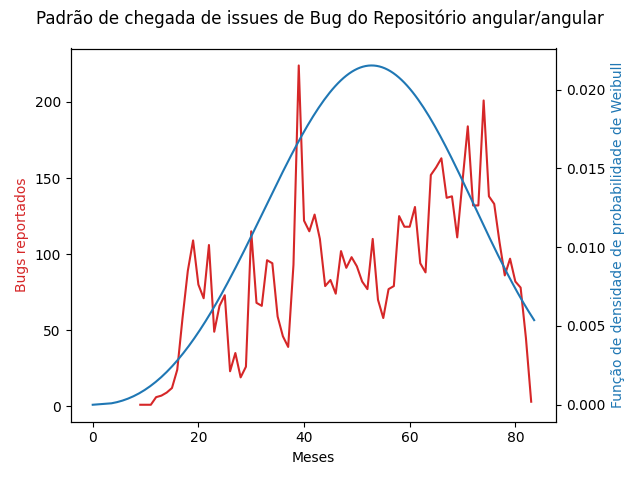
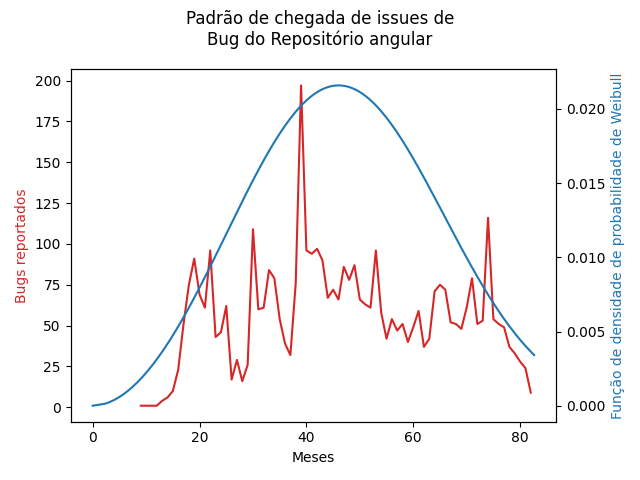
Add images results based on csv files.

diff --git a/graph_generator.py b/graph_generator.py
@@ -25,13 +25,8 @@ class GraphGenerator:
         plt.plot(axis_x, line_y,  color='blue', linewidth=1)
 
         plt.suptitle('Regressão Linear no último terço do repositório do software Spring')
-        plt.show()
+        plt.savefig(self.dg.repository.chart_name_linear)
 
-    # gg.export_graphs(
-    #     image_name=GRAPH_NAME, 
-    #     title='Padrão de chegada de issues de\nBug do Repositório %s' % (REPO_NAME)
-    # )
-    
     def weibull(self):
 
         months = self.dg.get_issue_months()
@@ -44,29 +39,28 @@ class GraphGenerator:
         ax1.set_xlabel('Meses')
         ax1.set_ylabel('Bugs reportados', color='tab:red')
         ax1.plot(months, axis_y, color='tab:red')
-        plt.show()
 
-        #  Gerar gráfico para regressão linear do último terço
-        # _size = len(self.dataset)//3
-        # self.linear_regression(self.dataset[2*_size:], axis_y[2*_size:])
+        # Gerar gráfico para regressão linear do último terço
+        # _size = len(months)//3
+        # self.linear_regression(months[2*_size:], axis_y[2*_size:])
 
-        # plt.suptitle(title)
+        plt.suptitle('Padrão de chegada de issues de\nBug do Repositório %s' % (self.dg.repository.name))
     
-        # wb = Fit_Weibull_2P(failures=self.dataset,show_probability_plot=False,print_results=True)
-        # weibull = wb.distribution
-        # print(weibull.stats())
+        wb = Fit_Weibull_2P(failures=months,show_probability_plot=False,print_results=True)
+        weibull = wb.distribution
+        print(weibull.stats())
 
-        # X = generate_X_array(dist=weibull, xvals=None, xmin=None, xmax=None)
-        # Y = ss.weibull_min.pdf(X, weibull.beta, scale=weibull.alpha, loc=weibull.gamma)
+        X = generate_X_array(dist=weibull, xvals=None, xmin=None, xmax=None)
+        Y = ss.weibull_min.pdf(X, weibull.beta, scale=weibull.alpha, loc=weibull.gamma)
 
-        # count = len([i for i in X if i < self.dataset[-1]+1 ])
+        count = len([i for i in X if i < months[-1]+1 ])
 
-        # X = X[:count]
-        # Y = Y[:count]
+        X = X[:count]
+        Y = Y[:count]
 
-        # ax2 = ax1.twinx()
-        # ax2.set_ylabel('Função de densidade de probabilidade de Weibull', color='tab:blue')
-        # ax2.plot(X, Y, color='tab:blue')
+        ax2 = ax1.twinx()
+        ax2.set_ylabel('Função de densidade de probabilidade de Weibull', color='tab:blue')
+        ax2.plot(X, Y, color='tab:blue')
 
-        # fig.tight_layout()
-        # plt.savefig(image_name)
+        fig.tight_layout()
+        plt.savefig(self.dg.repository.chart_name)

diff --git a/dataset_generator.py b/dataset_generator.py
@@ -12,21 +12,20 @@ import requests
 
 class DatasetGenerator:
     def __init__(self, token, repository, loadFromFile=False):
-        self.g = github.Github(token)
         self.repository = repository
-        self.repository_connection = self.g.get_repo(repository.url)
-
-        self.idx = 0
-        self.tokens_list = [
-            '',  # DURVAL
-            '',  # MICA
-            ''  # LUCAS
-        ]
-
         if(loadFromFile):
             self.filtered_issues = self.read_csv()
 
         else:
+            self.g = github.Github(token)
+            self.repository_connection = self.g.get_repo(repository.url)
+
+            self.idx = 0
+            self.tokens_list = [
+                '',  # DURVAL
+                '',  # MICA
+                ''  # LUCAS
+            ]
             self.all_issues = self.repository_connection.get_issues(
                 state='all',  # closed and open
                 # get only issues with must_have_labels

diff --git a/main.py b/main.py
@@ -1,4 +1,4 @@
-SOFTWARE = 'VUE'
+SOFTWARE = 'ASPNETCORE'
 
 from RepositoryClass import Repository
     
@@ -78,15 +78,9 @@ from graph_generator import GraphGenerator
 def main():
     
     # change loadFromFile to True if you have dataset file
-    dg = DatasetGenerator(token=GITHUB_TOKEN, repository=r, loadFromFile=False)
+    dg = DatasetGenerator(token=GITHUB_TOKEN, repository=r, loadFromFile=True)
 
     gg = GraphGenerator(dg)
-
-    # gg.weibull()
-
-    # gg.export_graphs(
-    #     image_name=GRAPH_NAME, 
-    #     title='Padrão de chegada de issues de\nBug do Repositório %s' % (REPO_NAME)
-    # )
+    gg.weibull()
 
 main()

diff --git a/IssueClass.py b/IssueClass.py
@@ -3,10 +3,10 @@ from datetime import datetime
 class Issue:
     def __init__(self, id, closed_at, created_at, state, url):
         self._id = id.strip()
-        
-        self._closed_at = datetime.strptime(closed_at.strip(), '%Y-%m-%d %H:%M:%S')
-        self._created_at = datetime.strptime(created_at.strip(), '%Y-%m-%d %H:%M:%S')
+        if(not 'None' in closed_at):
+            self._closed_at = datetime.strptime(closed_at.strip(), '%Y-%m-%d %H:%M:%S')
 
+        self._created_at = datetime.strptime(created_at.strip(), '%Y-%m-%d %H:%M:%S')
         self._state = state.strip()
         self._url = url.strip()
 

diff --git a/RepositoryClass.py b/RepositoryClass.py
@@ -10,3 +10,4 @@ class Repository:
         self.name = url.split('/')[1].replace('.', '')
         self.dataset_file = 'datasets/' + self.name + '.csv'
         self.chart_name = 'graph/' + self.name + '.png'
+        self.chart_name_linear = 'graph/' + self.name + 'linear_regression' + '.png'
